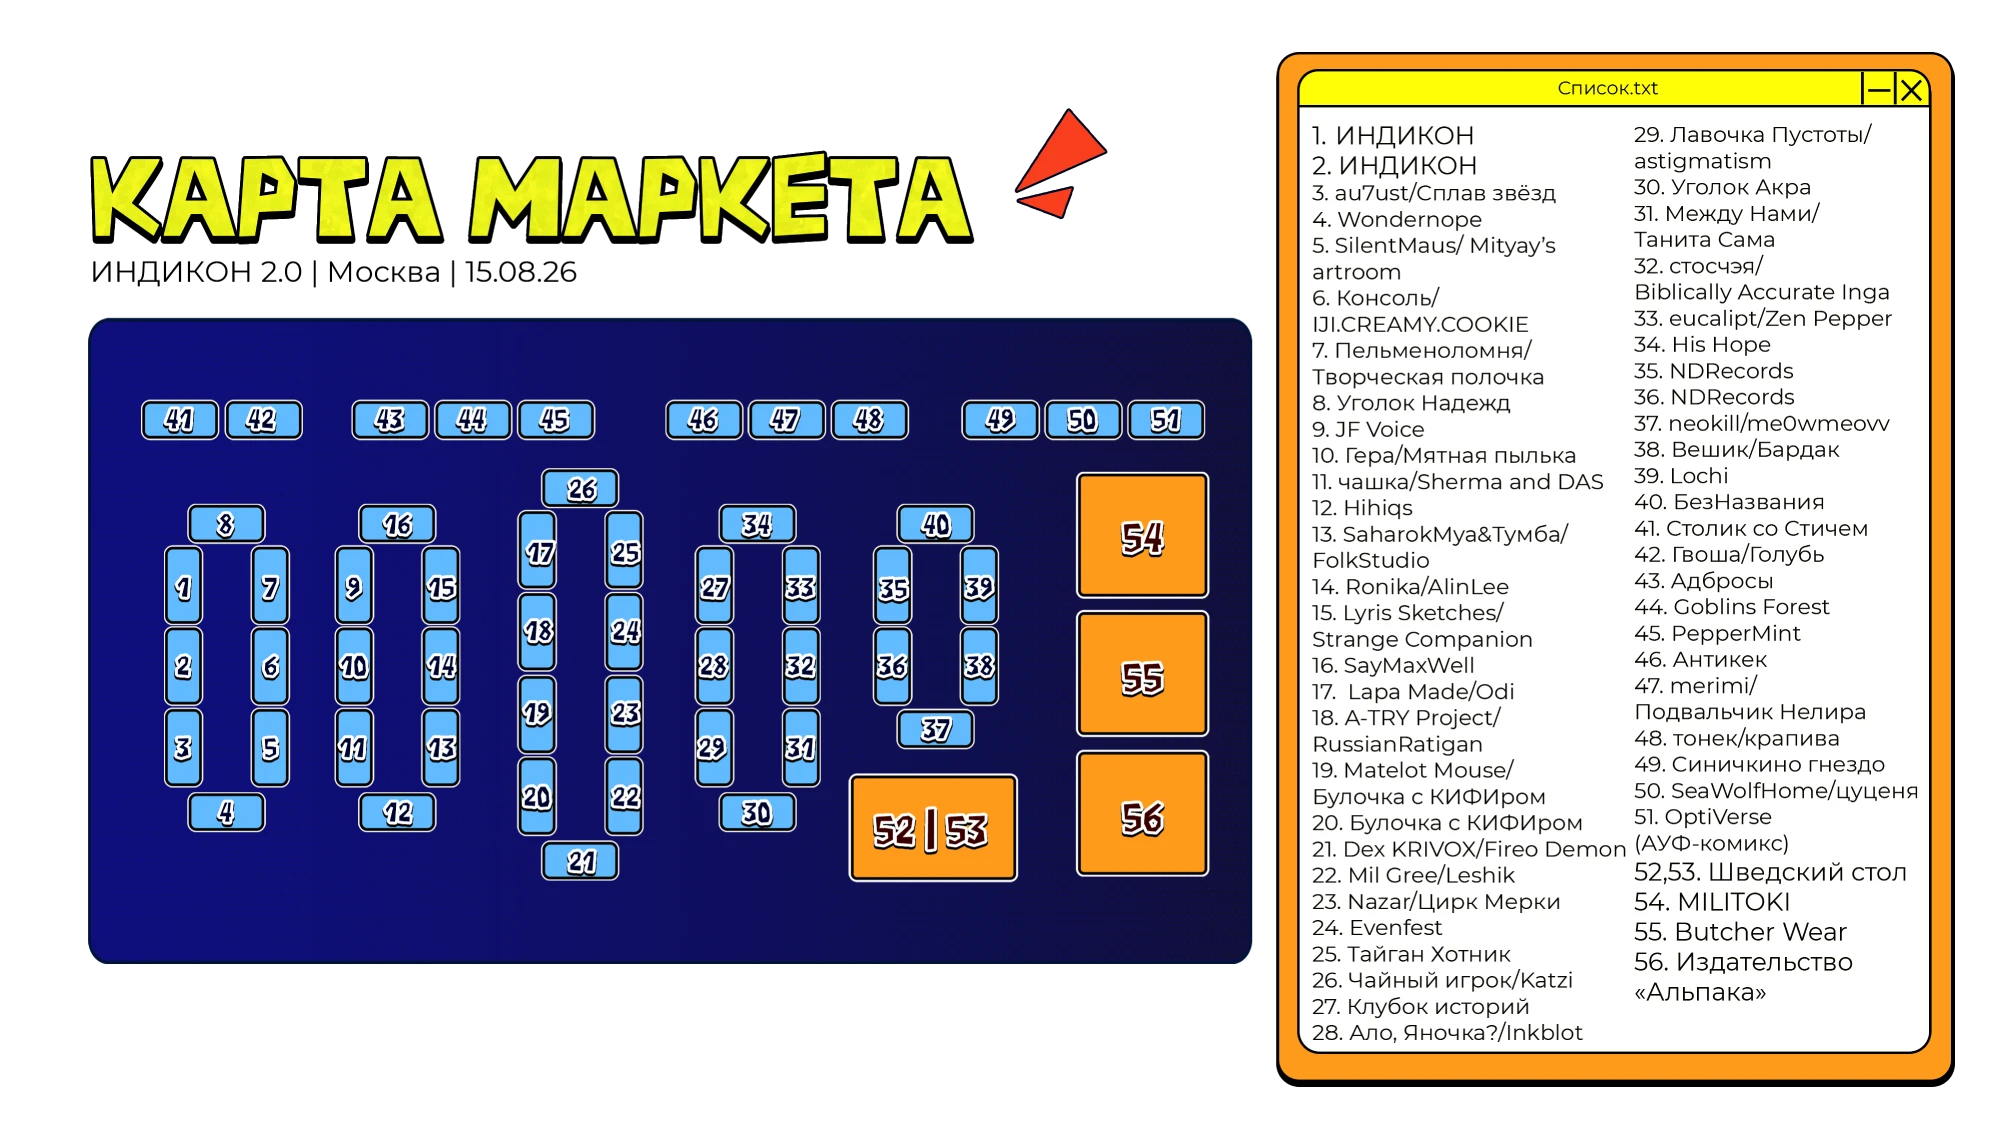
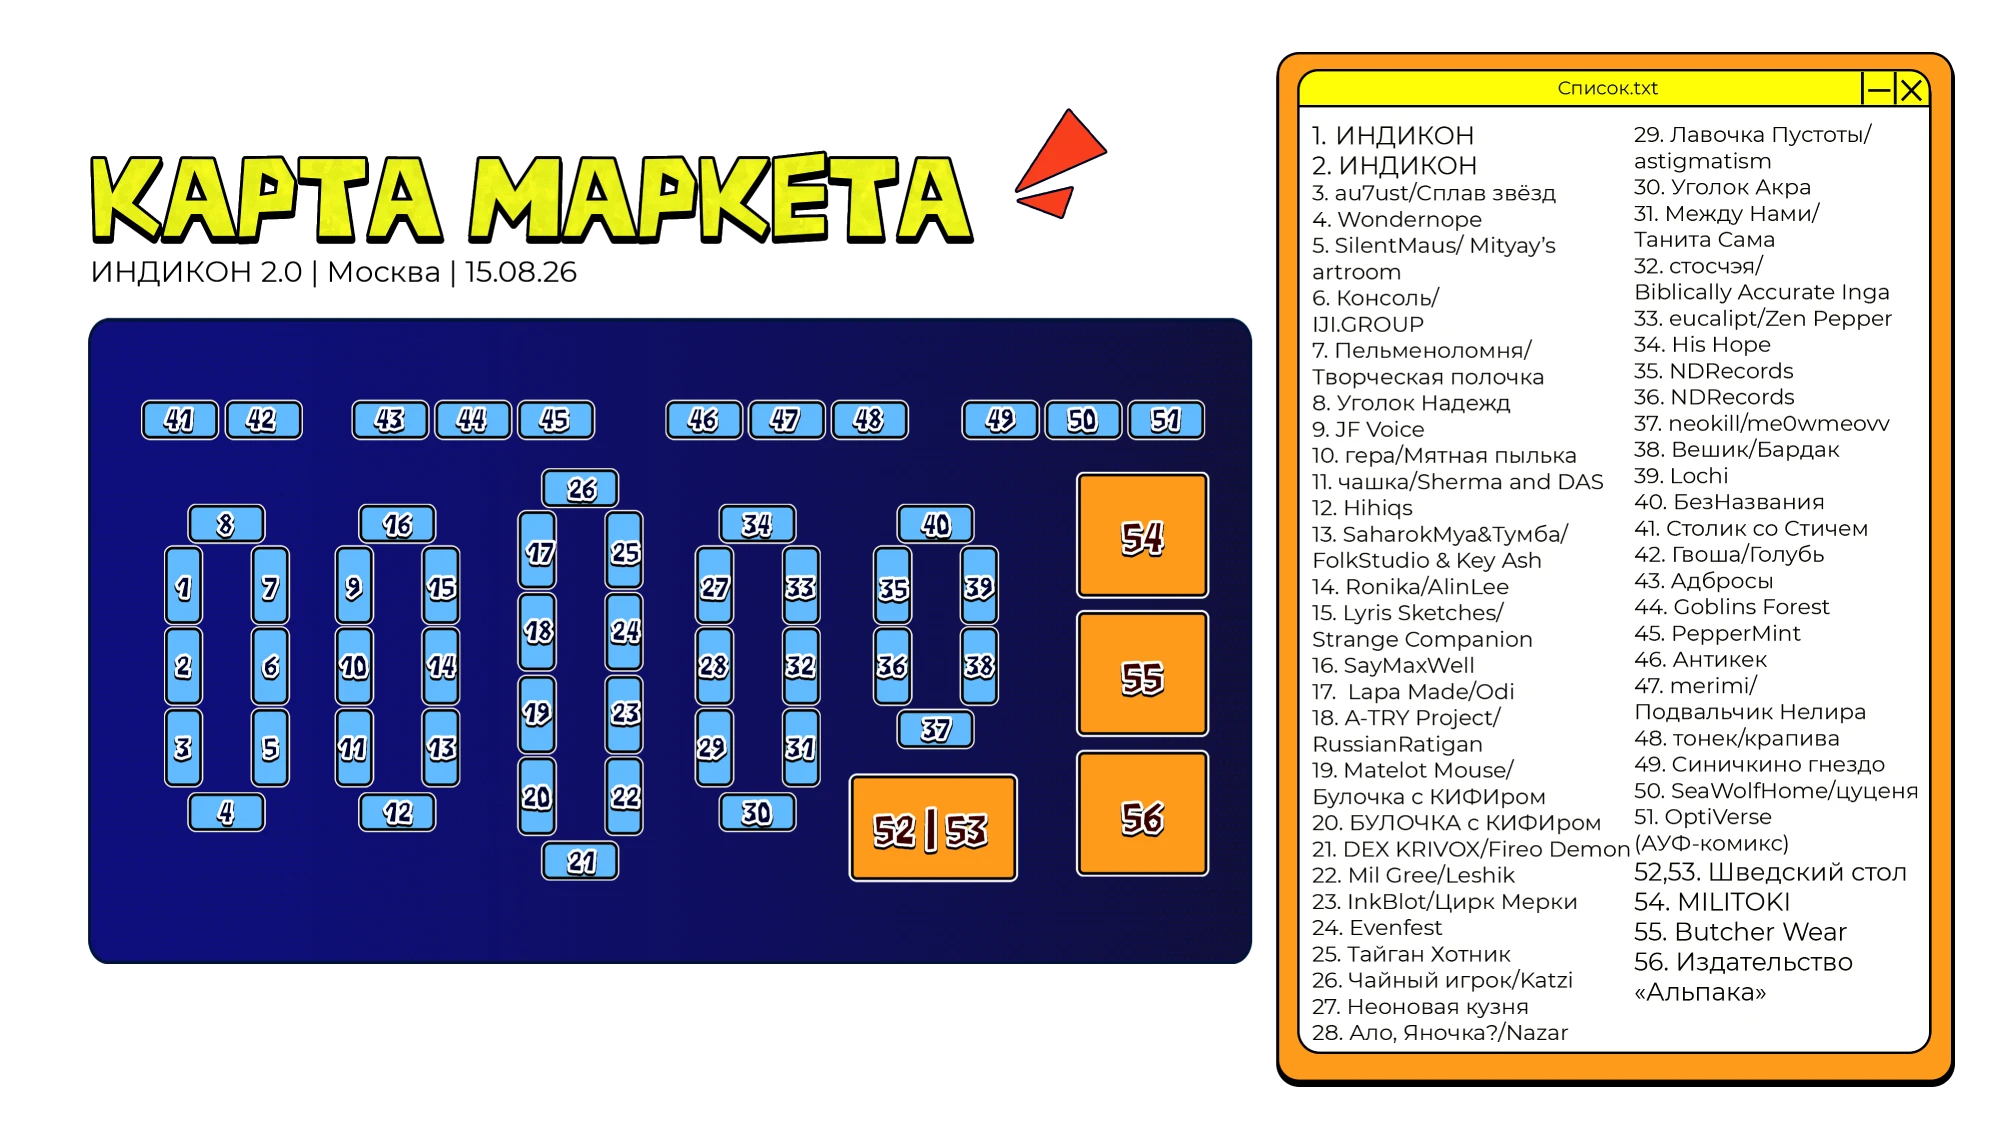
update timetable and map

diff --git a/src/routes/info/TimeTable.svelte b/src/routes/info/TimeTable.svelte
@@ -28,11 +28,11 @@
 		{ time: "Зона автограф сессий" },
 		{ title: "13:00", desc: "Антикек" },
 		{ title: "13:30", desc: "Акр" },
-		{ title: "14:00", desc: "JFVoice, FolkStudio, SiRus, Natsu Smeh, Neykas, FireVer) – Максвелл" },
+		{ title: "14:00", desc: "JFVoice, FolkStudio, SiRus, Natsu Smeh, Neykas, FireVer) – SayMaxWell" },
 		{ title: "15:00", desc: "Сумочкин – Ntime" },
 		{ title: "16:00", desc: "NDRecords – Braindead project – Бискас" },
 		{ title: "17:00", desc: "WonderNope – DTV" },
-		{ title: "18:00", desc: "Клайп, sad.pigeon, Grechka – Aliazo – ИнкБлот" },
+		{ title: "18:00", desc: "Клайп, sad.pigeon, Greschka05 – Aliazo – ИнкБлот" },
 		{ time: "Турниры", desc: "Для участия в турнирах нужно заранее подойти на зону и записаться" },
 		{ time: "Зона настолок" },
 		{ title: "13:30", desc: "Повелители Токио" },
